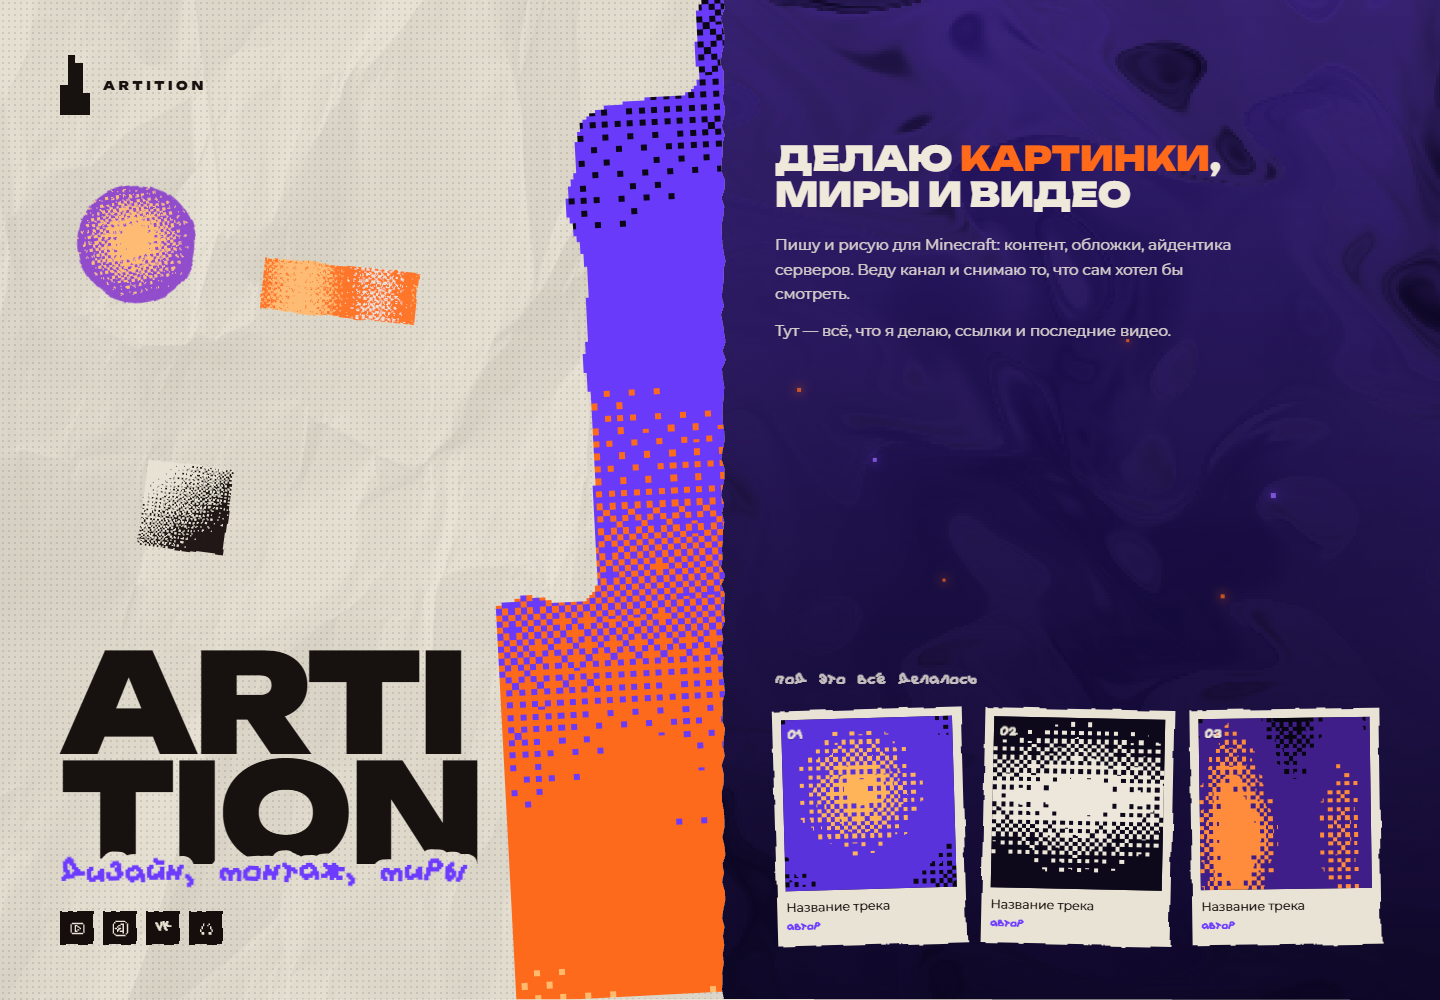
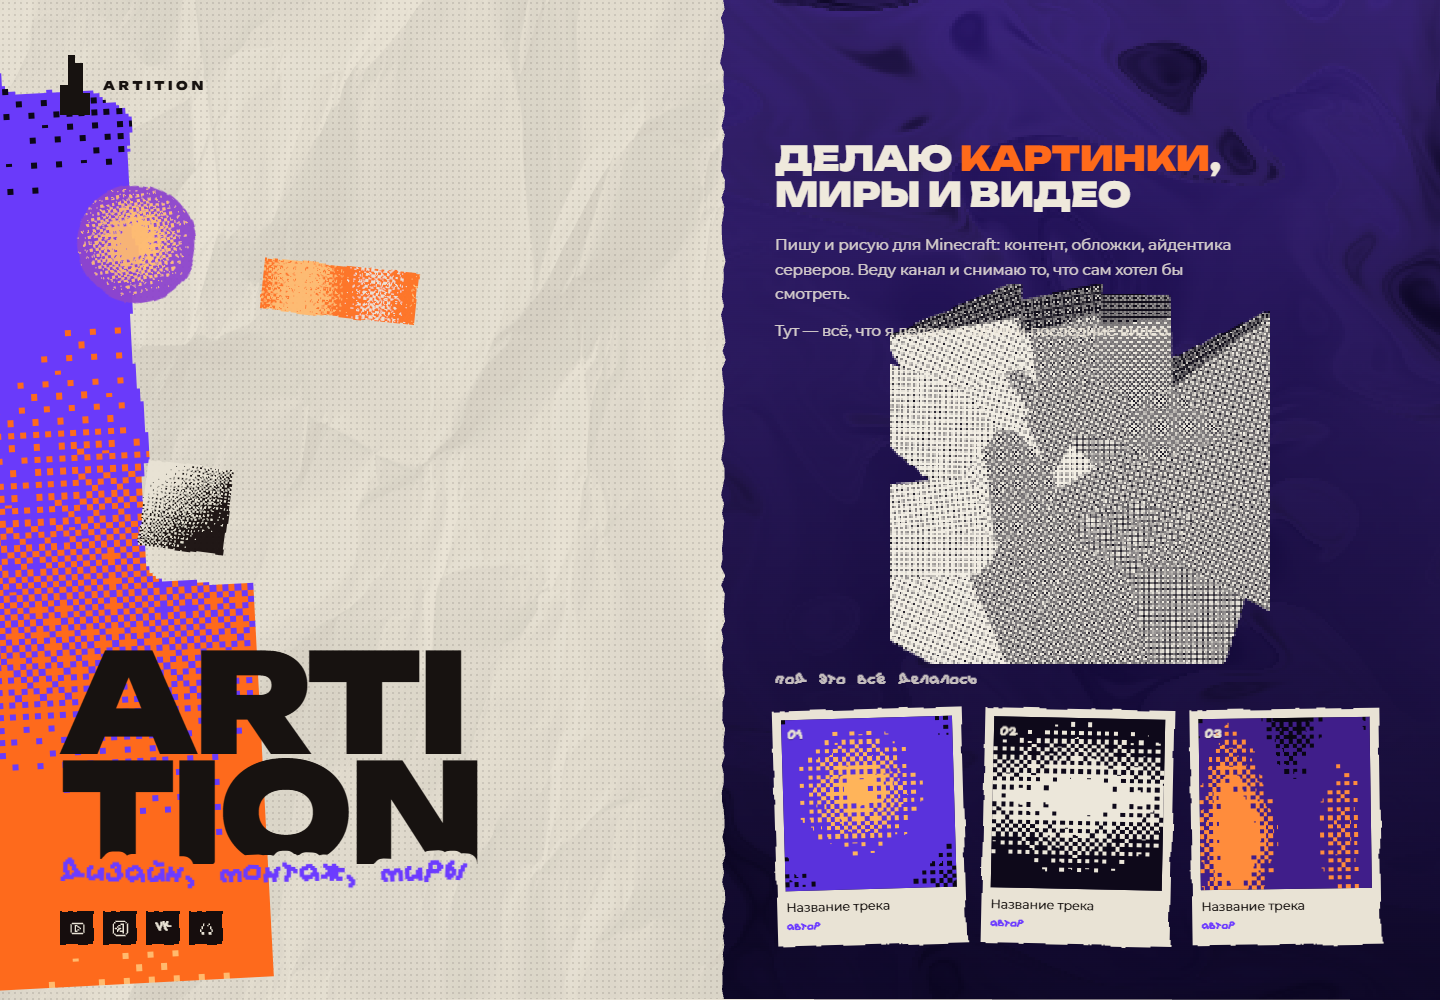
Add videos section, footer, mobile layout, card tilt/foil, page meta

diff --git a/_wireframe/index.html b/_wireframe/index.html
@@ -2,24 +2,30 @@
 <html lang="ru">
 <head>
 <meta charset="utf-8">
-<title>ПЕРВЫЙ ЭКРАН — сплит 50/50</title>
+<meta name="viewport" content="width=device-width, initial-scale=1">
+<title>Artition — дизайн, монтаж, миры</title>
+<meta name="description" content="Artition: рисую и монтирую для Minecraft — контент, обложки, айдентика серверов. Канал M_0_O_n и последние видео.">
+<meta property="og:title" content="Artition — дизайн, монтаж, миры">
+<meta property="og:description" content="Пишу и рисую для Minecraft: контент, обложки, айдентика серверов. Веду канал и снимаю то, что сам хотел бы смотреть.">
+<meta property="og:type" content="website">
+<link rel="icon" href="assets/flame.svg" type="image/svg+xml">
 <style>
   @font-face{font-family:"UnboundedX";src:url("fonts/Unbounded-Black.ttf");font-weight:900}
   @font-face{font-family:"Montserrat";src:url("fonts/Montserrat-Regular.otf");font-weight:400}
   @font-face{font-family:"Chaos16";src:url("fonts/CHAOS16.otf")}
   :root{--paper:#E9E3D5;--ink:#171210;--purple:#6C3BFF;--orange:#FF6A1A;--night:#0C0718}
   *{box-sizing:border-box;margin:0;padding:0}
-  body{width:1440px;background:var(--paper);color:var(--ink);font-family:"Montserrat";-webkit-font-smoothing:antialiased}
+  body{width:100%;max-width:1600px;margin:0 auto;background:var(--paper);color:var(--ink);font-family:"Montserrat";-webkit-font-smoothing:antialiased}
 
   .screen{position:relative;display:grid;grid-template-columns:1fr 1fr;height:1000px;overflow:hidden}
 
   /* ── фоновые панели: под кубом ── */
-  .paperPanel{position:absolute;left:0;top:0;width:744px;height:1000px;overflow:hidden;z-index:0}
+  .paperPanel{position:absolute;left:0;top:0;width:calc(50% + 24px);height:1000px;overflow:hidden;z-index:0}
   .paperPanel .paperbg{position:absolute;inset:0;background-image:url("assets/paper.png");
     background-size:135% 135%;background-position:center;opacity:.22;mix-blend-mode:multiply}
   .paperPanel .halftone{position:absolute;inset:0;opacity:.2;
     background-image:radial-gradient(circle at center, rgba(23,18,16,.55) 1px, transparent 1.1px);background-size:6px 6px}
-  .bgPanel{position:absolute;left:720px;top:0;width:720px;height:1000px;background:var(--night);overflow:hidden;z-index:0}
+  .bgPanel{position:absolute;left:50%;top:0;width:50%;height:1000px;background:var(--night);overflow:hidden;z-index:0}
   .bgPanel #bg{position:absolute;inset:0;width:100%;height:100%}
   .bgPanel .veil{position:absolute;inset:0;background:linear-gradient(180deg,rgba(10,5,32,.32) 0%,rgba(10,5,32,.66) 55%,rgba(10,5,32,.92) 100%)}
 
@@ -100,27 +106,70 @@
   .shot{position:relative;aspect-ratio:16/9;overflow:hidden;background:#120B24}
   .shot canvas{display:block;width:100%;height:100%;image-rendering:pixelated}
   .shot .dur{position:absolute;right:7px;bottom:6px;font-family:"Chaos16";font-size:14px;color:var(--paper)}
-  .vcard h3{font-size:14.5px;line-height:1.3;font-weight:400;margin-top:10px;max-width:94%}
+  .vcard h3{font-size:14.5px;line-height:1.3;font-weight:400;margin-top:10px;max-width:94%;min-height:2.6em}
   .vmeta{display:flex;justify-content:space-between;align-items:baseline;margin-top:7px;
     font-family:"Chaos16";font-size:15px;color:var(--orange)}
   .vmeta span{font-family:"Montserrat";font-size:11px;letter-spacing:.1em;color:rgba(239,233,220,.45)}
 
   /* ── подвал ── */
-  .foot{position:relative;background:var(--night);color:#EFE9DC;padding:89px 60px 34px;overflow:hidden}
+  .foot{position:relative;display:grid;grid-template-columns:1fr auto;column-gap:89px;align-items:end;
+    background:var(--night);color:#EFE9DC;padding:89px 60px 34px;overflow:hidden}
   .foot>.grain{position:absolute;inset:0;opacity:.5;pointer-events:none;
     background:radial-gradient(120% 90% at 78% -10%, rgba(108,59,255,.55) 0%, rgba(12,7,24,0) 62%)}
   .foot>*{position:relative}
-  .foot .fh{font-family:"Chaos16";font-size:21px;color:rgba(239,233,220,.6)}
-  .mail{display:inline-block;margin:13px 0 55px;font-family:"UnboundedX";font-weight:900;font-size:89px;
+  .foot .fh{grid-column:1;font-family:"Chaos16";font-size:21px;color:rgba(239,233,220,.6)}
+  .mail{grid-column:1;display:inline-block;margin:13px 0 0;font-family:"UnboundedX";font-weight:900;font-size:89px;
     letter-spacing:-.035em;color:#EFE9DC;text-decoration:none;transition:color .2s}
   .mail em{font-style:normal;color:var(--orange)}
   .mail:hover{color:var(--purple)}
   .mail:hover em{color:#EFE9DC}
-  .fl{display:flex;gap:34px;font-family:"Chaos16";font-size:17px;margin-bottom:89px}
+  .fl{grid-column:2;grid-row:1 / span 2;display:flex;flex-direction:column;gap:13px;align-items:flex-start;
+    font-family:"Chaos16";font-size:17px;padding-bottom:9px}
   .fl a{color:rgba(239,233,220,.72);text-decoration:none;transition:color .2s}
   .fl a:hover{color:var(--orange)}
-  .print{display:flex;justify-content:space-between;font-size:11px;letter-spacing:.1em;text-transform:uppercase;
-    color:rgba(239,233,220,.42);border-top:1px solid rgba(239,233,220,.16);padding-top:21px}
+  .print{grid-column:1 / -1;display:flex;justify-content:space-between;margin-top:89px;font-size:11px;
+    letter-spacing:.1em;text-transform:uppercase;color:rgba(239,233,220,.42);
+    border-top:1px solid rgba(239,233,220,.16);padding-top:21px}
+
+  :focus-visible{outline:2px solid var(--purple);outline-offset:3px}
+  .foot :focus-visible{outline-color:var(--orange)}
+
+  @media (max-width:900px){    body{width:100%;overflow-x:hidden}
+    .screen{display:block;height:1120px}
+    .paperPanel{width:100%;height:620px}
+    .bgPanel{left:0;top:620px;width:100%;height:500px}
+    .left{position:absolute;left:0;top:0;width:100%;height:620px;padding:28px 22px 24px}
+    .right{position:absolute;left:0;top:620px;width:100%;height:500px;padding:34px 22px 28px}
+    .mark svg{width:22px;height:44px}
+    .mark{gap:9px}
+    .mark .wm{font-size:10px}
+    .plate{width:100%;height:auto}
+    #flame{left:-120px;top:-40px;width:240px;height:400px}
+    .cubeWrap{display:none}
+    .soc-bar{gap:7px;margin-top:16px}
+    .soc{width:30px;height:30px}
+    .about{margin-top:0}
+    .about .lead{font-size:24px;margin-bottom:13px}
+    .about p{font-size:13px;line-height:1.55;margin-bottom:9px}
+    .tracks{margin-top:21px}
+    .tlabel{font-size:15px;margin-bottom:13px}
+    .trow{gap:8px}
+    .track{padding:6px 6px 9px}
+    .track b{font-size:10px;margin-top:6px;line-height:1.2}
+    .track i{font-size:11px;margin-top:2px}
+    .cov .no{font-size:13px;left:4px;top:2px}
+    .paperSec{padding:55px 22px}
+    .vhead{flex-direction:column;align-items:flex-start;gap:21px;margin-bottom:34px}
+    .vhead h2{font-size:55px}
+    .vnote{text-align:left;font-size:15px}
+    .vgrid{grid-template-columns:1fr;gap:21px}
+    .vcard h3{font-size:13.5px;min-height:0}
+    .foot{grid-template-columns:1fr;column-gap:0;padding:55px 22px 28px}
+    .foot .fh{font-size:15px}
+    .mail{font-size:34px;letter-spacing:-.03em;margin-top:9px}
+    .fl{grid-column:1;grid-row:auto;flex-direction:row;flex-wrap:wrap;gap:16px;margin-top:34px;font-size:14px;padding-bottom:0}
+    .print{flex-direction:column;gap:9px;margin-top:55px;font-size:10px}
+  }
 </style>
 </head>
 <body>
@@ -334,13 +383,31 @@ ditherCanvas(document.getElementById('t3'),{cell:3,levels:3,
 /* ── рваная кромка стыка: одинаковый профиль на обеих половинах ── */
 (function(){
   const L=document.querySelector('.paperPanel'), R=document.querySelector('.bgPanel');
-  const W=720,H=1000,step=9,amp=13;
   const h=i=>{ let n=i*374761393+668265263; n=(n^(n>>13))*1274126177; return ((n^(n>>16))>>>0)/4294967295; };
   const vn=i=>{ const a=h(Math.floor(i)),b=h(Math.floor(i)+1),f=i-Math.floor(i),u=f*f*(3-2*f); return a*(1-u)+b*u; };
-  const pts=[];
-  for(let y=0;y<=H;y+=step){ const t=y/step; const n=vn(t)*.65+vn(t*3.7+9)*.35; pts.push([y,n*amp]); }
-  R.style.clipPath=`polygon(${[...pts.map(([y,x])=>`${x.toFixed(1)}px ${y}px`),`${W}px 100%`,`${W}px 0`].join(',')})`;
-  L.style.clipPath=`polygon(${['0 0',...pts.map(([y,x])=>`${(W+x).toFixed(1)}px ${y}px`),'0 100%'].join(',')})`;
+  function draw(){
+    if(matchMedia('(max-width:900px)').matches){
+      const W=R.offsetWidth||innerWidth, H=R.offsetHeight||500, step=9, amp=11;
+      const top=[],bot=[];
+      for(let x=0;x<=W;x+=step){
+        const t=x/step;
+        const n1=vn(t)*.65+vn(t*3.7+9)*.35;
+        const n2=vn(t+61)*.65+vn(t*3.1+17)*.35;
+        top.push([x,n1*amp]); bot.push([x,H-n2*amp]);
+      }
+      const poly=[...top.map(([x,y])=>`${x}px ${y.toFixed(1)}px`),
+                  ...bot.reverse().map(([x,y])=>`${x}px ${y.toFixed(1)}px`)];
+      R.style.clipPath=`polygon(${poly.join(',')})`;
+      L.style.clipPath='none';
+    }else{
+      const W=R.offsetWidth||720,H=R.offsetHeight||1000,step=9,amp=13,pts=[];
+      for(let y=0;y<=H;y+=step){ const t=y/step; const n=vn(t)*.65+vn(t*3.7+9)*.35; pts.push([y,n*amp]); }
+      R.style.clipPath=`polygon(${[...pts.map(([y,x])=>`${x.toFixed(1)}px ${y}px`),`${W}px 100%`,`${W}px 0`].join(',')})`;
+      L.style.clipPath=`polygon(${['0 0',...pts.map(([y,x])=>`${(W+x).toFixed(1)}px ${y}px`),'0 100%'].join(',')})`;
+    }
+  }
+  draw();
+  addEventListener('resize',()=>{ clearTimeout(window.__rs); window.__rs=setTimeout(draw,120); });
 })();
 
 /* ── фон правой половины: шейдер в духе Balatro (Azkun/balatroShader, MIT-подобный) ── */
@@ -555,7 +622,7 @@ ditherCanvas(document.getElementById('t3'),{cell:3,levels:3,
   let mx=window.innerWidth*0.06, my=window.innerHeight*0.92, hasPointer=false;
   window.addEventListener('mousemove',e=>{ mx=e.clientX; my=e.clientY; hasPointer=true; },{passive:true});
 
-  let spread=1, tiltX=0, tiltY=0;
+  let spread=0, tiltX=0, tiltY=0;
   const t0=performance.now();
 
   function frame(now){
@@ -563,7 +630,7 @@ ditherCanvas(document.getElementById('t3'),{cell:3,levels:3,
     const cxp=r.left+r.width/2, cyp=r.top+r.height/2;
     const dx=mx-cxp, dy=my-cyp, dist=Math.hypot(dx,dy);
     const t=Math.min(1,Math.max(0,(dist-150)/430));
-    spread += ((hasPointer?t:1)-spread)*0.09;
+    spread += ((hasPointer?t:0)-spread)*0.09;
     tiltY += ((dx/560)-tiltY)*0.08;
     tiltX += ((dy/700)-tiltX)*0.08;
 
@@ -723,7 +790,7 @@ ditherCanvas(document.getElementById('t3'),{cell:3,levels:3,
     ['v3',stopsC,(u,v)=>Math.min(1,Math.max(0,.15+.85*(u*.62+v*.38)))],
     ['v4',stopsA,(u,v)=>Math.min(1,Math.max(0,.55+.55*Math.sin(Math.hypot(u-.5,v-.5)*23-.8)))],
     ['v5',stopsC,(u,v)=>Math.min(1,Math.max(0,.9-.9*Math.abs(v-.42)*1.9+.18*Math.sin(u*9+1)))],
-    ['v6',stopsB,(u,v)=>Math.min(1,Math.max(0,.85-.85*Math.hypot(u-.62,v-.62)*1.5))]
+    ['v6',stopsA,(u,v)=>Math.min(1,Math.max(0,.92-.92*Math.hypot(u-.62,v-.58)*1.35))]
   ];
   specs.forEach(([id,stops,field])=>{
     const c=document.getElementById(id);
@@ -757,12 +824,16 @@ ditherCanvas(document.getElementById('t3'),{cell:3,levels:3,
 /* ── рваная верхняя кромка подвала ── */
 (function(){
   const f=document.querySelector('.foot'); if(!f) return;
-  const W=1440, H=f.offsetHeight+40, step=9, amp=11, pts=[];
-  for(let x=0;x<=W;x+=step){
-    const n=vnoise(x*0.045,7.3,91)*2-1;
-    pts.push(x+'px '+Math.round(9+n*amp)+'px');
+  function draw(){
+    const W=f.offsetWidth, H=f.offsetHeight+40, step=9, amp=11, pts=[];
+    for(let x=0;x<=W;x+=step){
+      const n=vnoise(x*0.045,7.3,91)*2-1;
+      pts.push(x+'px '+Math.round(9+n*amp)+'px');
+    }
+    f.style.clipPath='polygon('+pts.join(',')+', '+W+'px '+H+'px, 0px '+H+'px)';
   }
-  f.style.clipPath='polygon('+pts.join(',')+', '+W+'px '+H+'px, 0px '+H+'px)';
+  draw();
+  addEventListener('resize',()=>{ clearTimeout(window.__fs); window.__fs=setTimeout(draw,150); });
 })();
 </script>
 </body>
